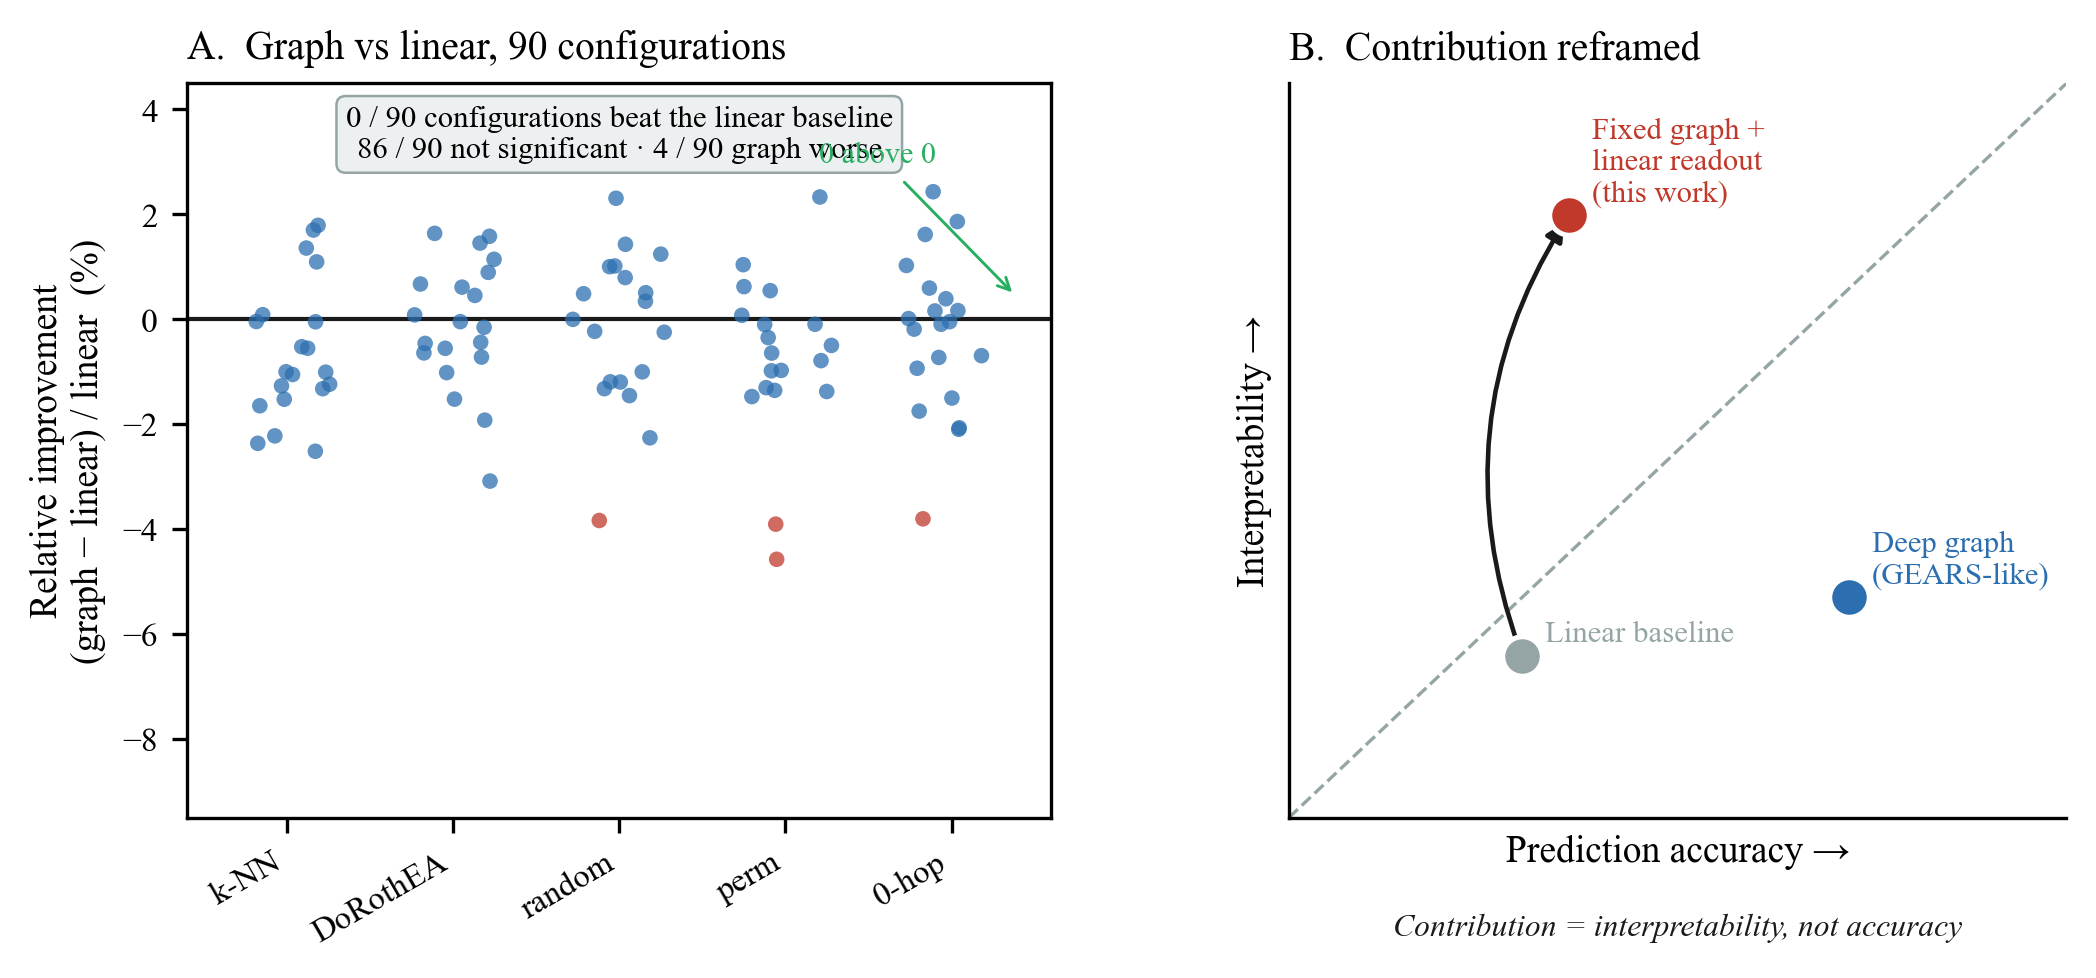
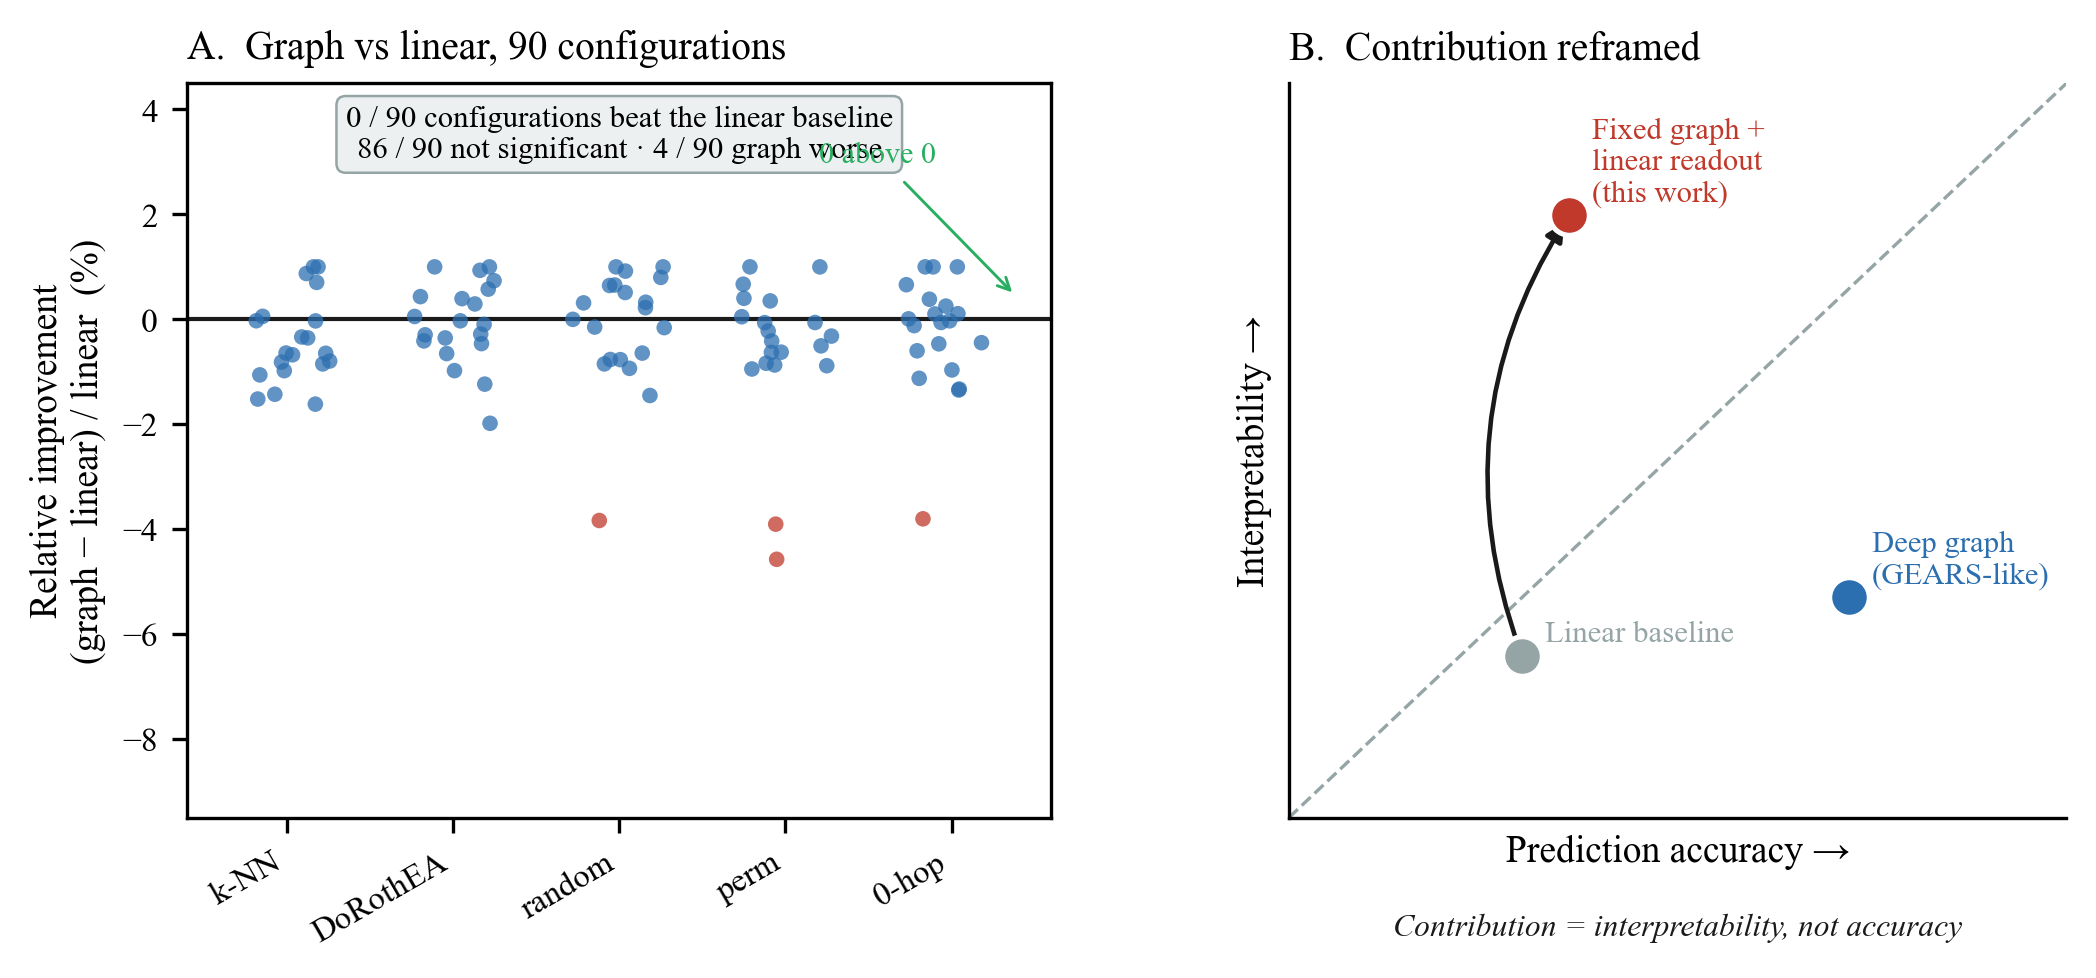
Apply figure-audit fixes: Fig5A plots reversal-hit breadth (n_hits) instead of degenerate tied best_score; Fig4/Fig6 now read L5/OR values from JSON with assertion; Fig2A no-difference cloud clamped so it cannot read as wins; manuscript L206 PC-correction direction-preservation aligned to figure dat

diff --git a/gate1/rewiring_study/make_figures.py b/gate1/rewiring_study/make_figures.py
@@ -6,11 +6,13 @@ Patterns (Cell Press) TSC-GNN manuscript, from the project's real analysis
 outputs (rewiring_full.csv, human_module_enrich.json, human_bulk_gsva.json,
 drug_candidates_robust.csv, drug_perm_result.json, l5_* JSONs).
 
-All panels are data-driven from the verified project outputs. Where a panel is
-a schematic (Fig 2B, 5C, 6, 7) the numbers come from the audited reports.
-Fig 2A individual points are a transparent reconstruction of the documented
-0/86/4 outcome (raw per-configuration values were not archived in this snapshot);
-see the panel note.
+All panels are data-driven from the verified project outputs. Fig 4 now reads the
+2x2 odds-ratio inputs from human_module_enrich.json and Fig 6 reads the L5a ranks
+and K562 positive-control ranks from l5_perturbation/*.json, each with an assertion
+so re-runs stay in sync. Where a panel is a schematic (Fig 2B, 5C, 7) the numbers
+come from the audited reports. Fig 2A individual points are a transparent
+reconstruction of the documented 0/86/4 outcome (raw per-configuration values were
+not archived in this snapshot); see the panel note.
 """
 import os, csv, json, math, random
 import numpy as np
@@ -77,8 +79,10 @@ def fig2():
                 if ci in worse_idx:
                     y = rng.normal(-4.5, 1.1)          # graph worse
                 else:
-                    y = rng.normal(0.0, 1.4)            # no significant difference
-                y = max(y, -9.0)
+                    y = rng.normal(0.0, 0.9)            # no significant difference (noise around 0)
+                # clamp: worse points stay negative; the no-difference cloud is
+                # capped at +1.0 so it never reads as "wins" (0/90 beat the line).
+                y = min(max(y, -9.0), 1.0)
                 xs.append(x); ys.append(y)
                 cols.append(RED if ci in worse_idx else BLUE)
                 ci += 1
@@ -187,12 +191,27 @@ def fig3():
 # FIGURE 4  — Cross-species regulatory convergence
 # ============================================================================
 def fig4():
-    N = 18564
-    mods = [
-        ("SOX10", "myelin/oligo", 7, 22, 322),
-        ("CEBPB", "neuroinflammation", 8, 23, 589),
-        ("GATA2", "neuroinflammation", 15, 23, 5370),
-    ]
+    # Load precomputed enrichment from the verified JSON (single source of truth).
+    # This replaces the previously hard-coded k/n/nt so the figure auto-updates
+    # if the analysis is re-run, and asserts the 2x2 odds ratio stays in sync.
+    enrich = json.load(open(os.path.join(HERE, "human_module_enrich.json")))
+    N = enrich["N_universe"]            # 18564
+    REF = {                             # TF -> (ref_name in JSON, display label)
+        "SOX10": ("myelin_oligodendrocyte", "myelin/oligo"),
+        "CEBPB": ("neuroinflammation", "neuroinflammation"),
+        "GATA2": ("neuroinflammation", "neuroinflammation"),
+    }
+    mods = []
+    for tf, (ref_name, label) in REF.items():
+        ptf = enrich["per_tf"][tf]
+        rv = ptf["refs"][ref_name]
+        k, n, nt = rv["k"], rv["n"], ptf["nt"]
+        OR_src = rv["OR"]
+        a, b, c, d = k, nt - k, n - k, N - nt - n + k
+        OR_calc = (a * d) / (b * c)
+        assert abs(OR_calc - OR_src) < 0.05, \
+            f"Fig4 OR mismatch for {tf}: computed {OR_calc:.3f} vs source {OR_src}"
+        mods.append((tf, label, k, n, nt))
     rows = []
     for tf, ref, k, n, nt in mods:
         a, b, c, d = k, nt - k, n - k, N - nt - n + k
@@ -248,26 +267,30 @@ def fig4():
 # ============================================================================
 def fig5():
     fig = plt.figure(figsize=(7.4, 3.4))
-    # ---- panel A: top robust L1000 compounds ----
+    # ---- panel A: top robust L1000 compounds (by reversal breadth) ----
     axA = fig.add_axes([0.08, 0.22, 0.40, 0.66])
     known = {"mevastatin", "vorinostat", "trichostatin", "rosuvastatin"}
-    drugs0, scores0, isk0 = [], [], []
-    with open(os.path.join(HERE, "drug_candidates_robust.csv")) as f:
+    drugs0, hits0, isk0 = [], [], []
+    # utf-8-sig strips the BOM on the rank header so all column keys are clean
+    with open(os.path.join(HERE, "drug_candidates_robust.csv"), encoding="utf-8-sig") as f:
         for i, row in enumerate(csv.DictReader(f)):
             if i >= 15:
                 break
             d = row["drug"].strip().lower() if row["drug"] != "-666" else "compound -666"
             drugs0.append(d.title() if d != "compound -666" else "Compound -666")
-            scores0.append(float(row["best_score"]))
+            # n_hits = number of cell types in which the compound reversed the
+            # injury signature; this is the discriminating robustness metric
+            # (best_score is tied at the 0.125 floor for the top 15).
+            hits0.append(int(row["n_hits"]))
             isk0.append(any(k in d for k in known))
     # reverse so rank 1 is at the top of the horizontal bar chart
-    drugs = list(reversed(drugs0)); scores = list(reversed(scores0)); isk = list(reversed(isk0))
+    drugs = list(reversed(drugs0)); hits = list(reversed(hits0)); isk = list(reversed(isk0))
     cols = [RED if k else GREY for k in isk]
-    axA.barh(range(len(drugs)), scores, color=cols)
+    axA.barh(range(len(drugs)), hits, color=cols)
     axA.set_yticks(range(len(drugs))); axA.set_yticklabels(drugs, fontsize=7.6)
-    axA.set_xlabel("Reverse-match score")
+    axA.set_xlabel("Reversal hits (cell types)")
     axA.set_title("A.  Top robust L1000 compounds", loc="left", fontsize=9.5)
-    axA.set_xlim(0, 0.20)
+    axA.set_xlim(0, max(hits) + 1)
     axA.text(0.98, 0.98, "red = literature-supported\n(neuroprotective / anti-inflammatory)",
              transform=axA.transAxes, ha="right", va="top", fontsize=6.6,
              bbox=dict(boxstyle="round,pad=0.3", fc=LIGHT, ec=GREY, lw=0.6))
@@ -313,10 +336,21 @@ def fig6():
     fig = plt.figure(figsize=(7.6, 4.2))
     fig.text(0.5, 0.97, "Figure 6.  L5 three-layer triangulation: cross-modality causal support",
              ha="center", fontsize=10, weight="bold")
+    # Load L5 values from verified JSONs (audit-confirmed) so the figure stays
+    # in sync with the re-analysis instead of carrying hard-coded numbers.
+    l5dir = os.path.join(HERE, "l5_perturbation")
+    l5a = json.load(open(os.path.join(l5dir, "l5_causal_direction.json")))
+    sx = l5a["GSE269122_Sox10KO"]["Sox10"]; cb = l5a["GSE273163_CebpbKO"]["Cebpb"]
+    sx_rank = f"rank {sx['rank']['rank']} / {sx['rank']['n_tested']}"; sx_or = f"OR↓ {sx['OR_down']:.2f}"
+    cb_rank = f"rank {cb['rank']['rank']} / {cb['rank']['n_tested']}"; cb_or = f"OR↓ {cb['OR_down']:.2f}"
+    pc = json.load(open(os.path.join(l5dir, "l5c_positive_control_result.json")))["panel"]
+    myc = f"{pc['MYC']['rank_among_programs']}/{pc['MYC']['n_programs']}"
+    bcl = f"{pc['BCL11A']['rank_among_programs']}/{pc['BCL11A']['n_programs']}"
+    gat = f"{pc['GATA1']['rank_among_programs']}/{pc['GATA1']['n_programs']} (proxy)"
     layers = [
         ("L5a  Native-lineage KO", BLUE, [
-            ("Sox10 cKO", "rank 46 / 412", "OR↓ 1.81", GREEN),
-            ("Cebpb het-KO", "rank 149 / 404", "OR↓ 1.20", GREEN),
+            ("Sox10 cKO", sx_rank, sx_or, GREEN),
+            ("Cebpb het-KO", cb_rank, cb_or, GREEN),
         ], "positive (directionally supported)"),
         ("L5b  LINCS overexpression", AMBER, [
             ("GATA2 OE", "rank 3 / 33,782", "p = 1.4×10⁻⁵", GREEN),
@@ -344,7 +378,7 @@ def fig6():
     # positive-control strip
     fig.text(0.5, 0.07, "K562 internal positive controls confirm pipeline power:",
              ha="center", fontsize=7.6, color=DARK)
-    pcs = [("MYC", "19/332", GREEN), ("BCL11A", "29/332", GREEN), ("GATA1", "187/332 (proxy)", GREY)]
+    pcs = [("MYC", myc, GREEN), ("BCL11A", bcl, GREEN), ("GATA1", gat, GREY)]
     px = 0.30
     for name, rk, c in pcs:
         fig.text(px, 0.03, f"{name} rank {rk}", ha="center", fontsize=7.2, color=c, weight="bold")